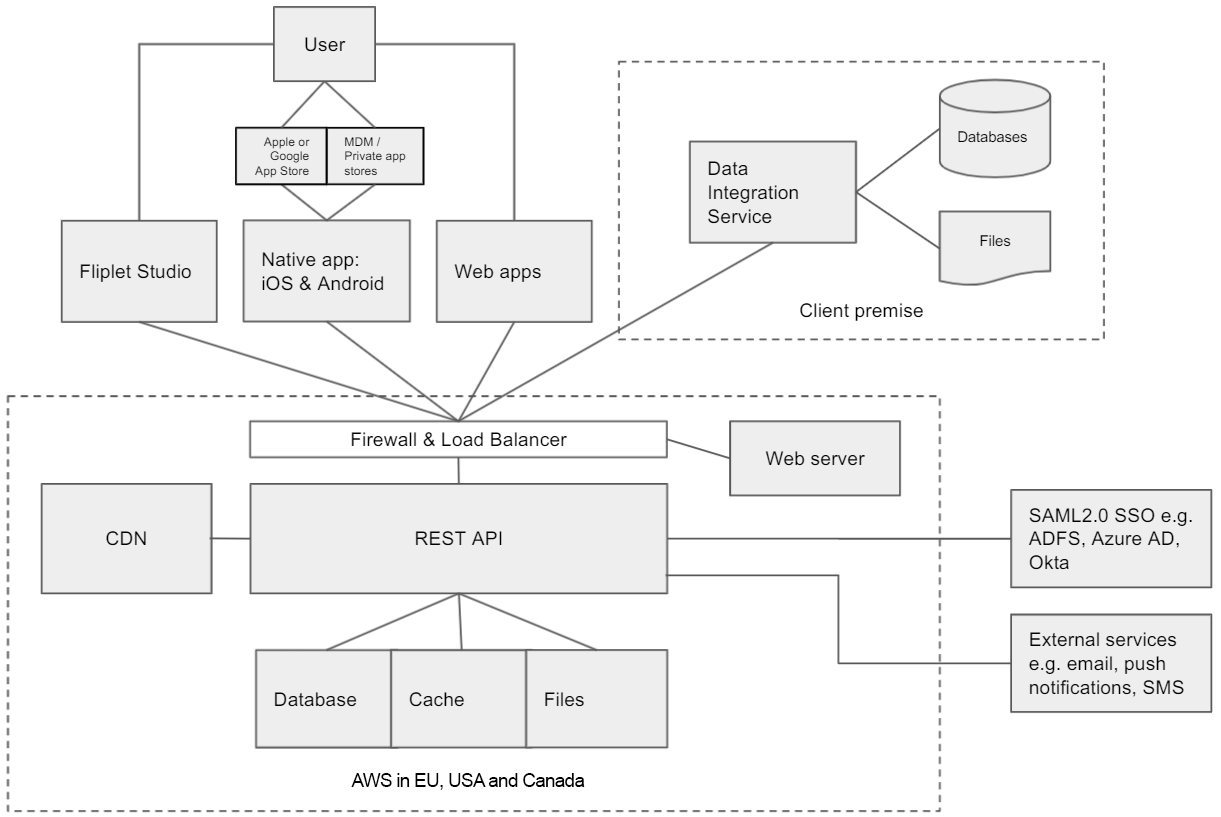
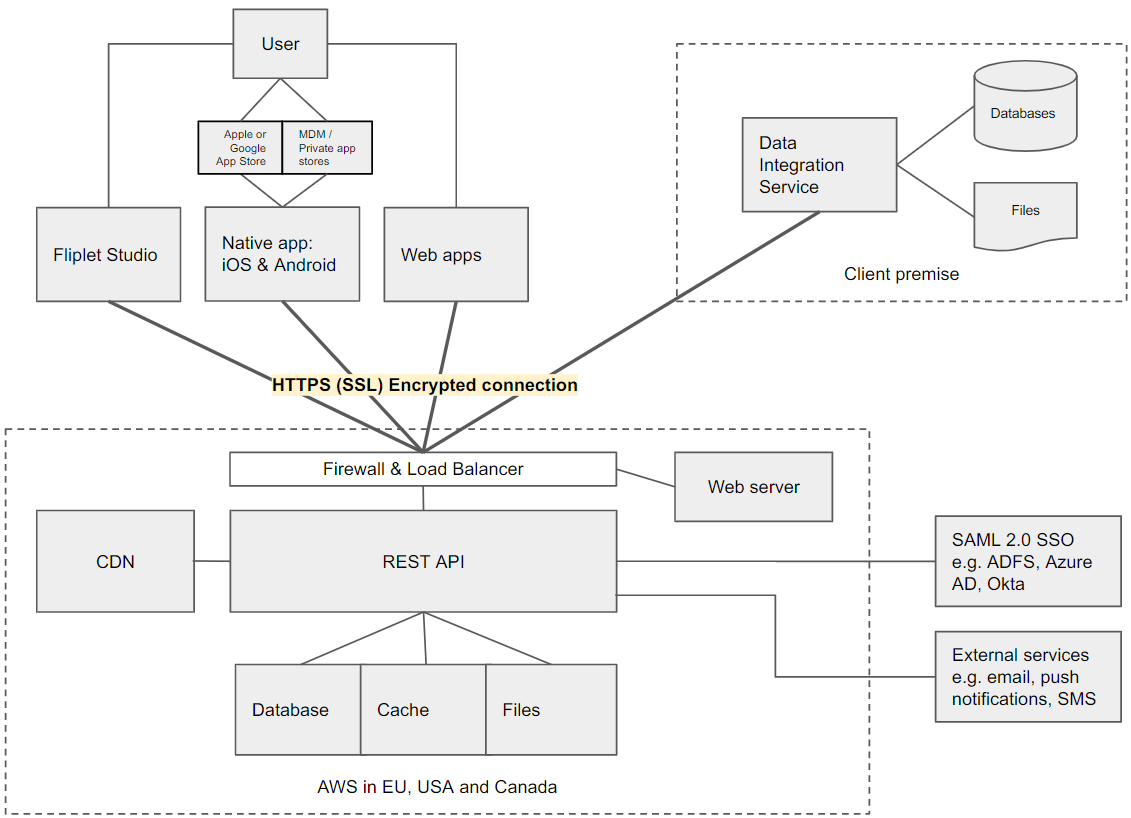
updated architecture image

diff --git a/docs/Data-flow.md b/docs/Data-flow.md
@@ -1,3 +1,3 @@
 # Infrastructure Data flow
 
-![Data flow](assets/img/architecture.png)
+![Data flow](assets/img/architecture.png?v=2)
